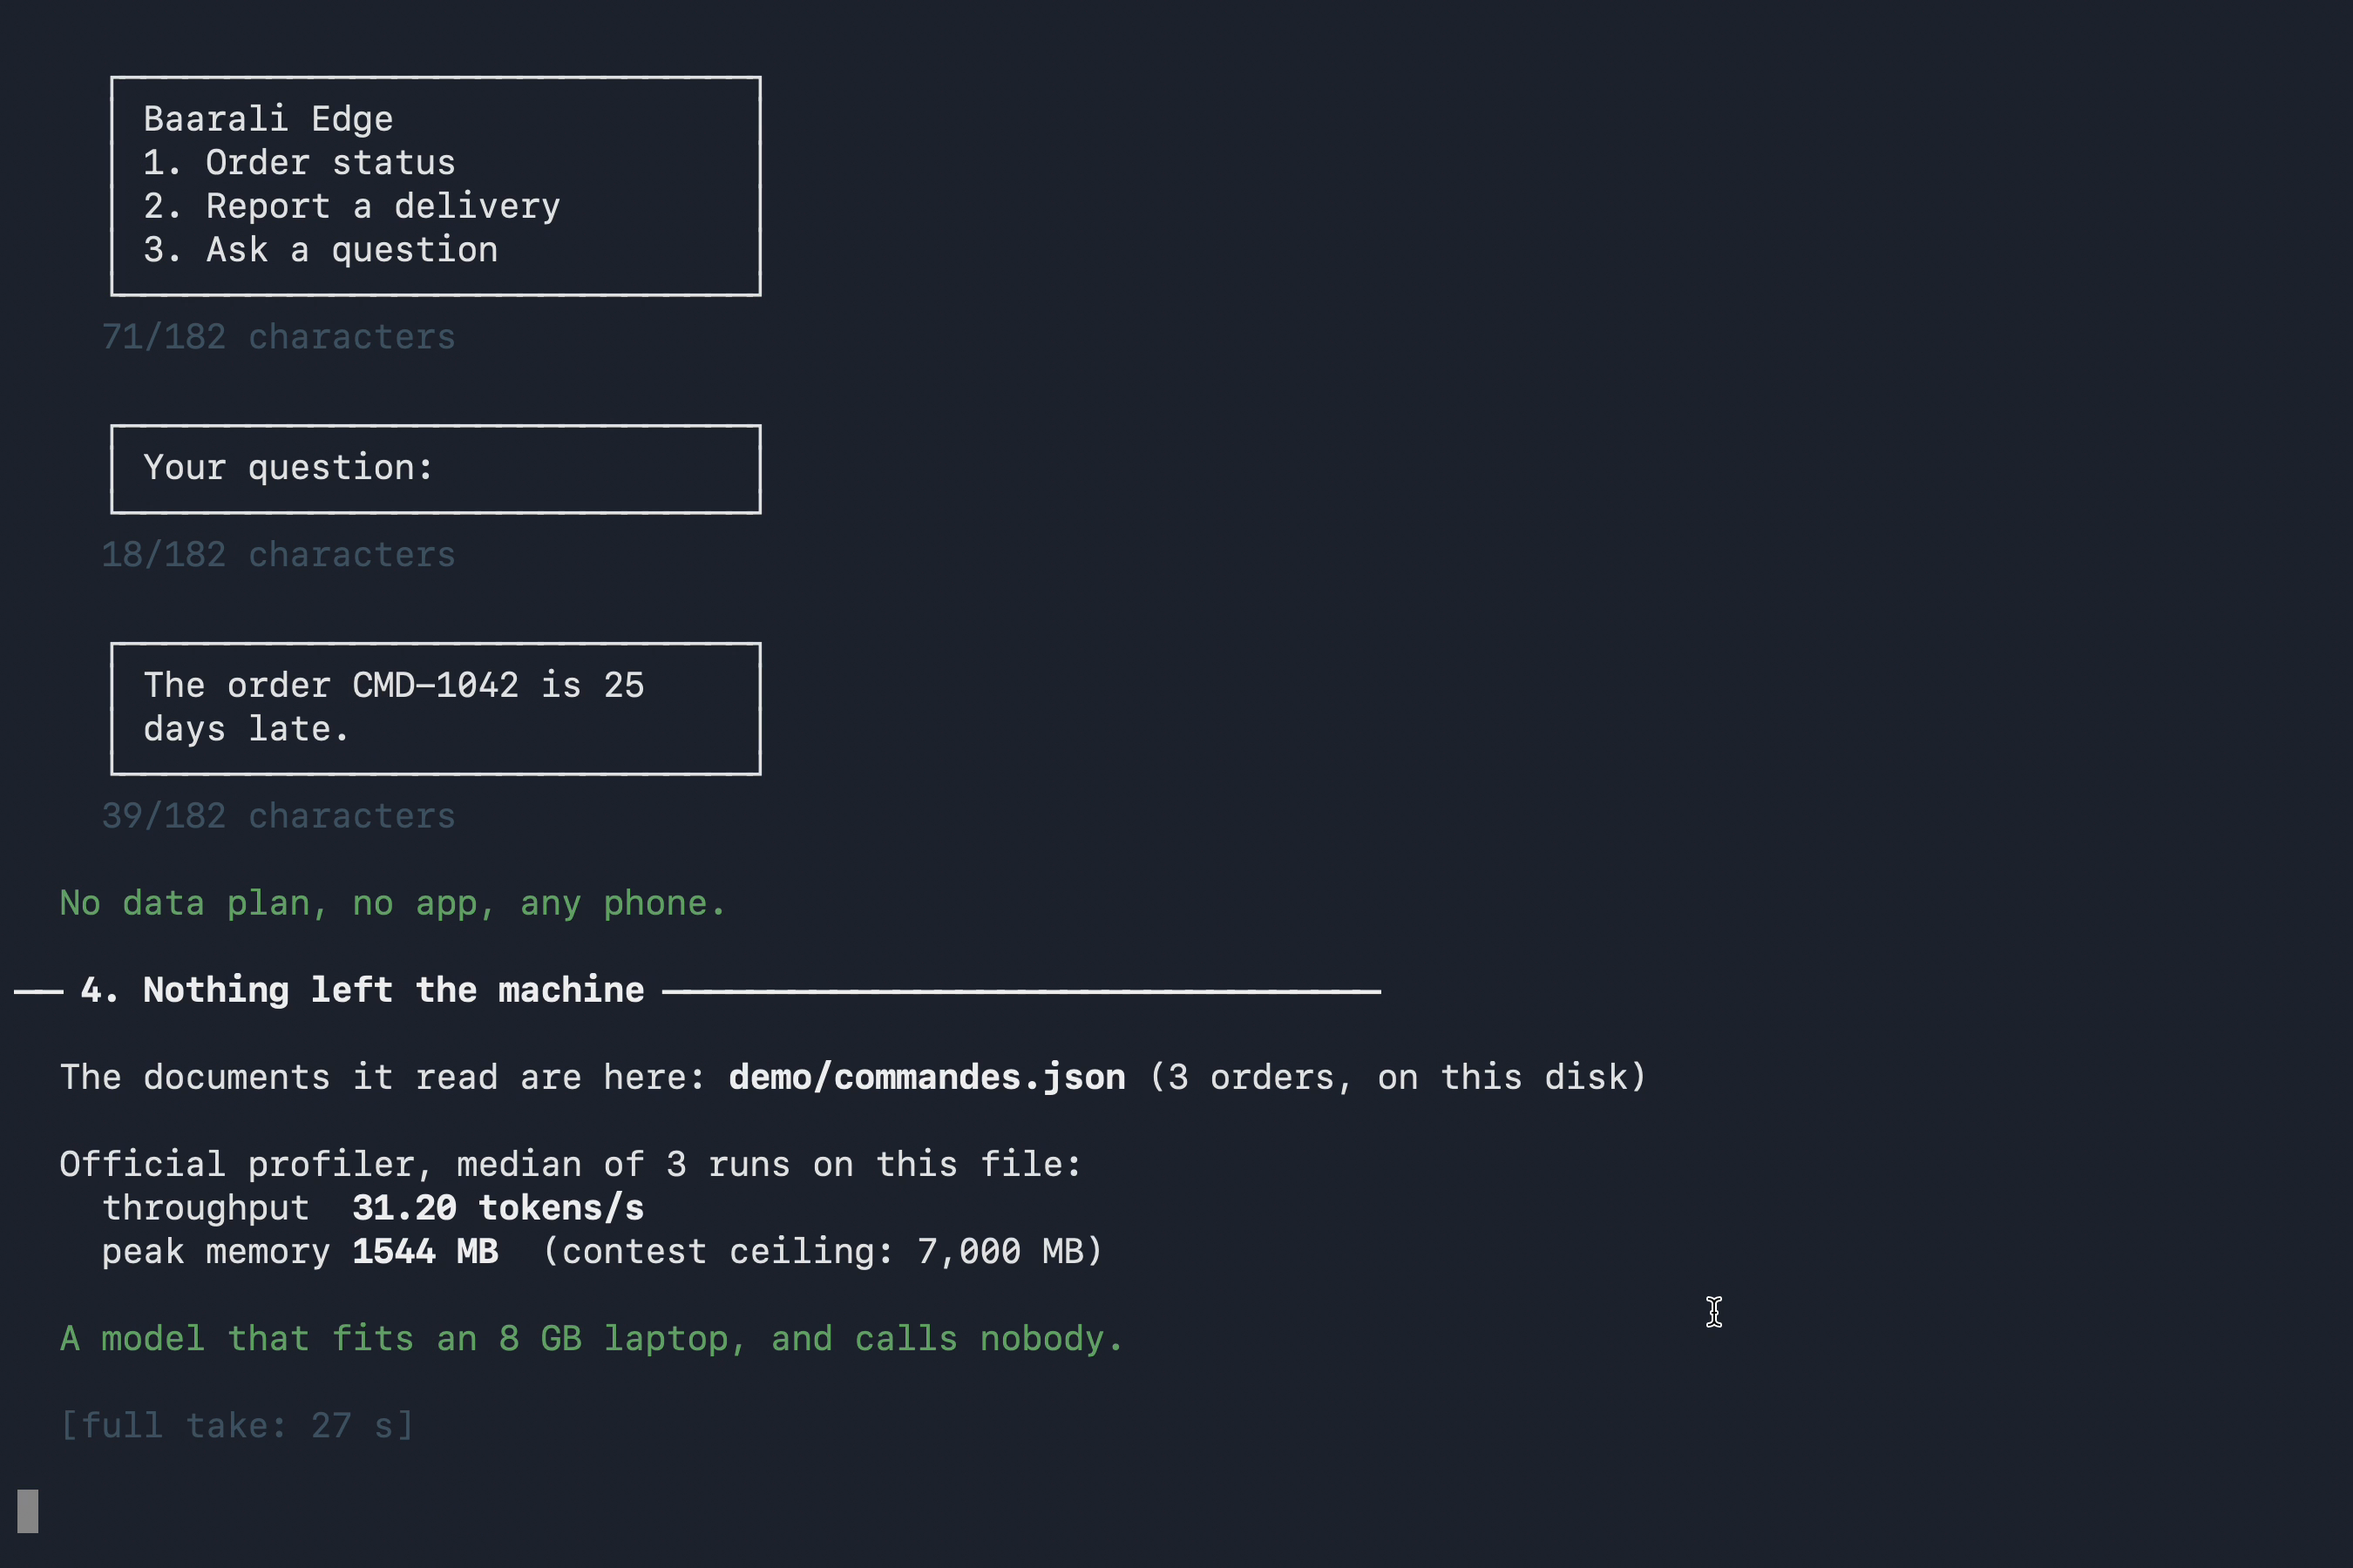
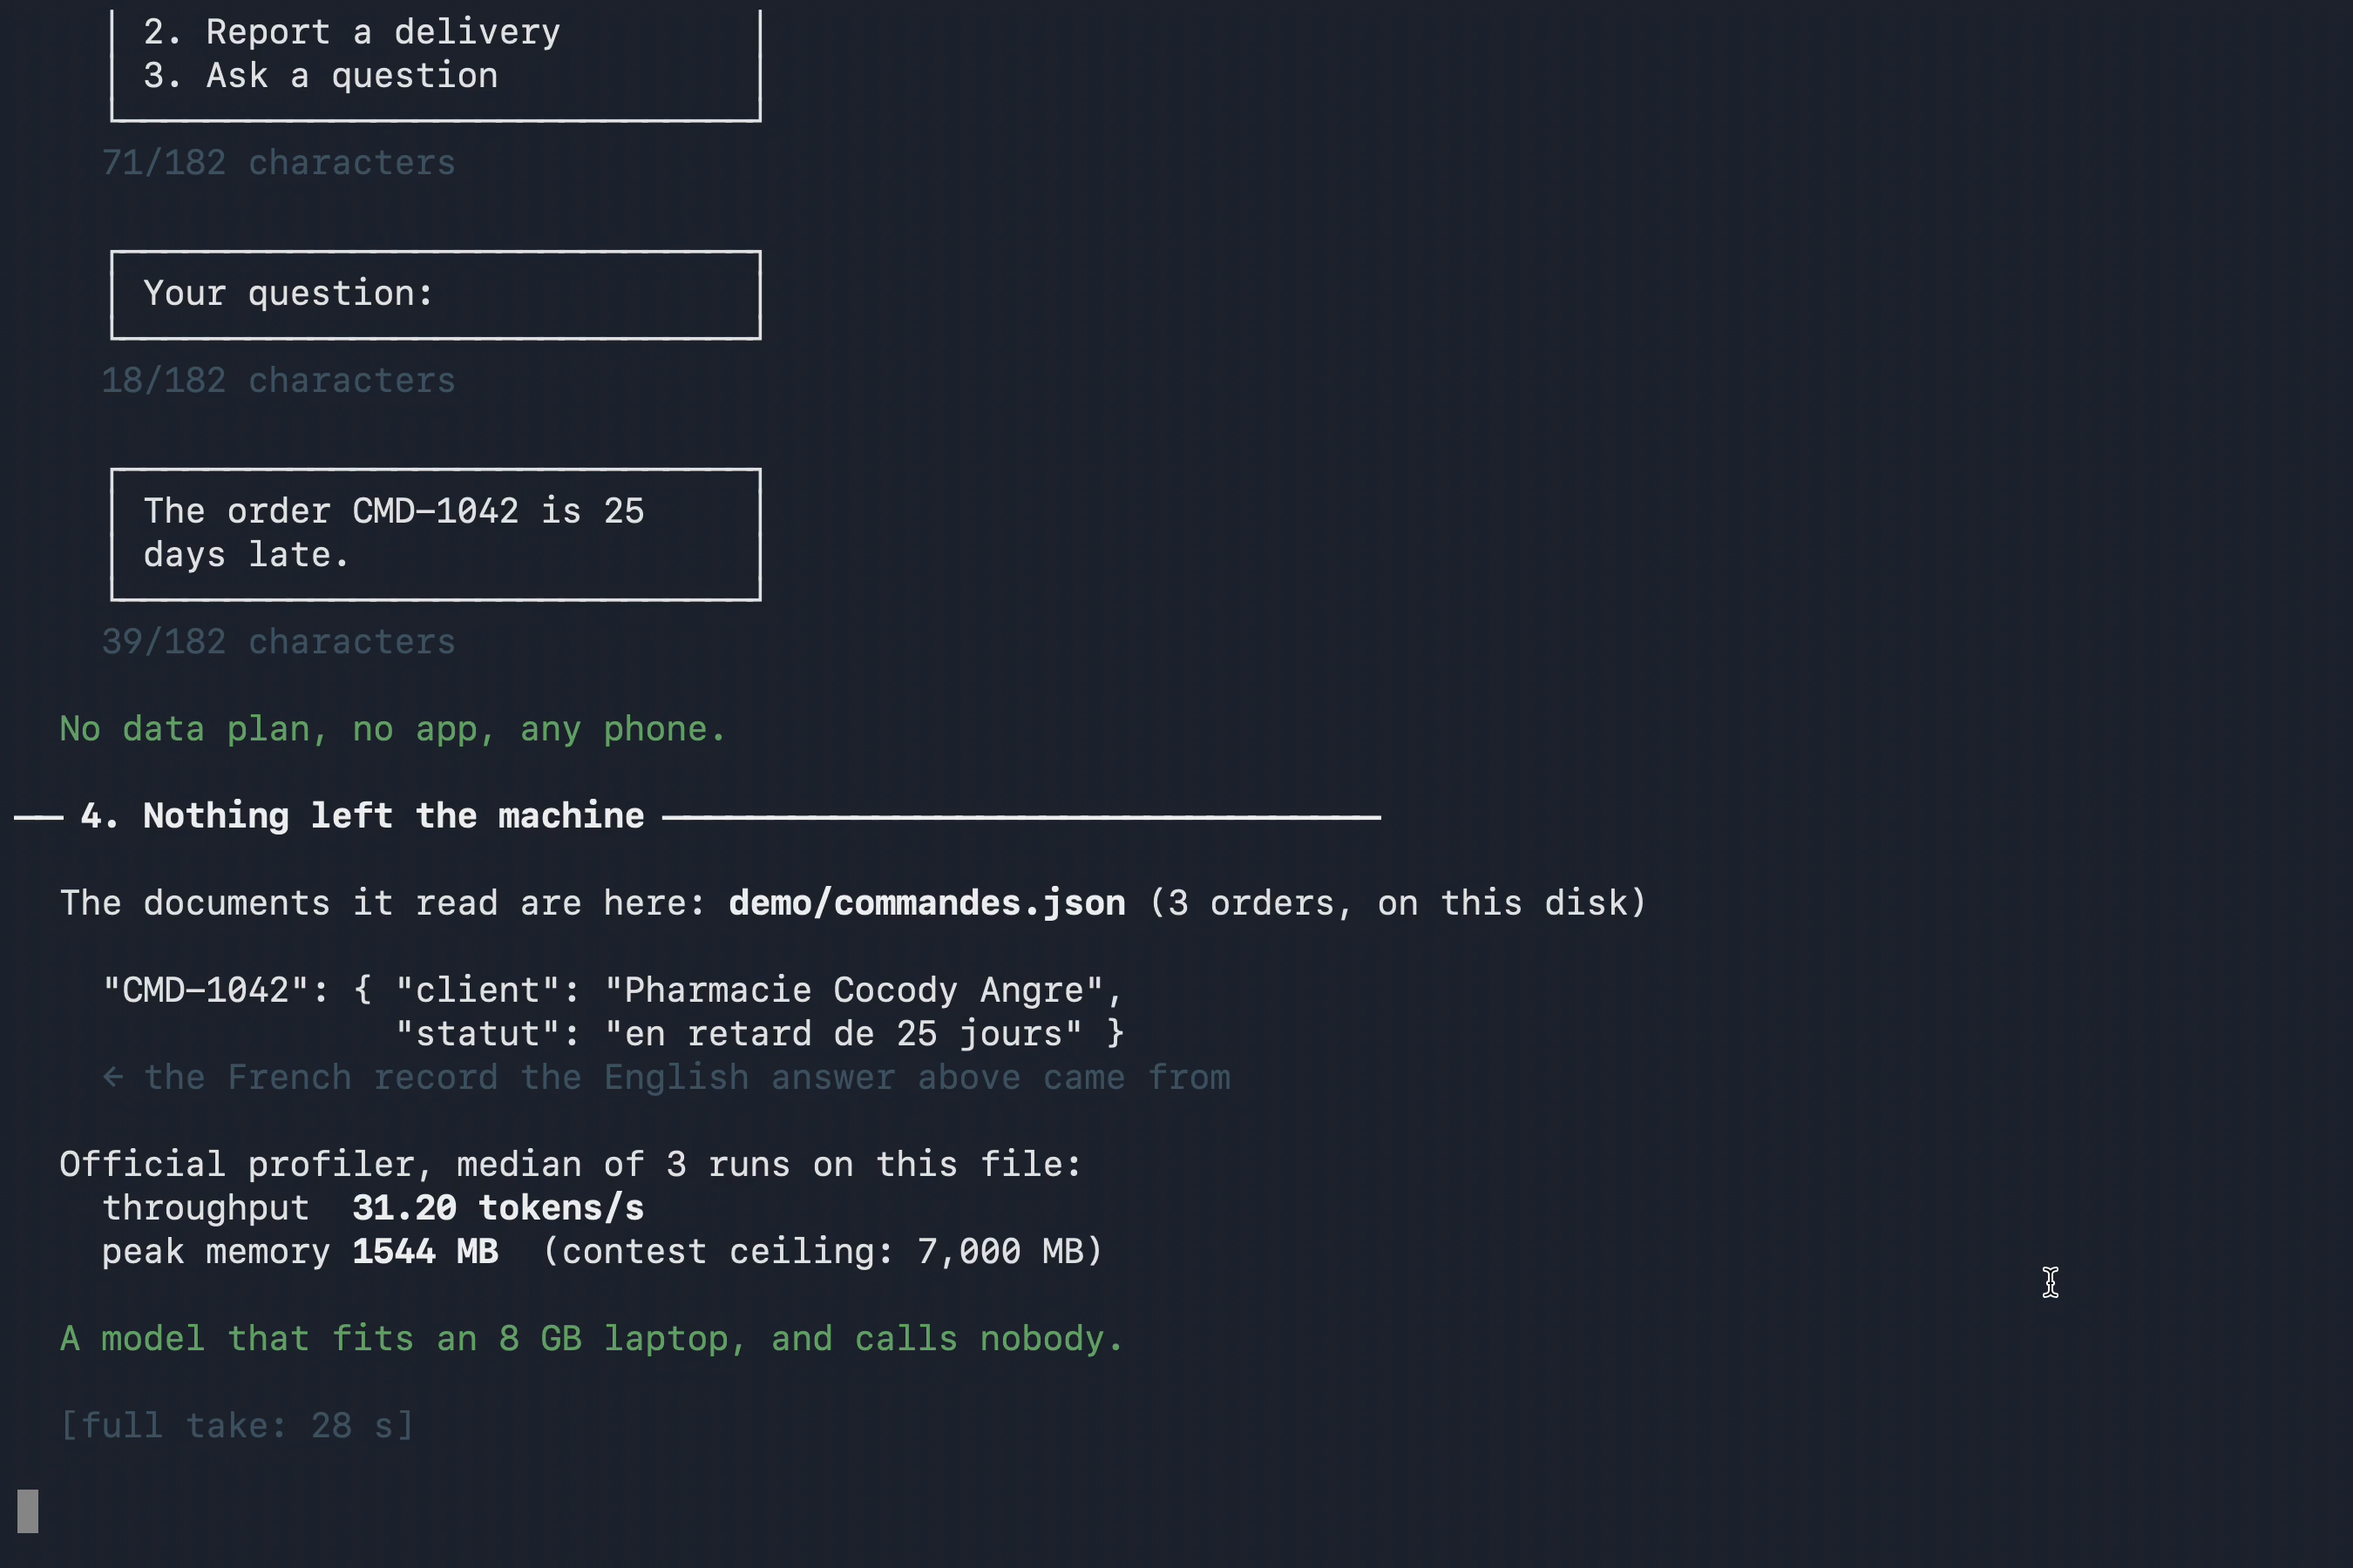
demo: montrer la source, et refuser une prise tronquee
Acte 4 : la fiche CMD-1042 telle qu elle est sur le disque, sous la reponse
anglaise qui en sort. " repond a partir des documents de l entreprise " etait
une revendication que le spectateur devait croire ; elle est maintenant a l ecran.

filmer.sh : la duree se lit dans le fichier et non au chronometre. Une prise ou
la capture s est arretee avant la fin de la scene est refusee au lieu d etre
annoncee reussie — c est arrive, l acte 4 manquait au film.

diff --git a/demo/tournage.py b/demo/tournage.py
@@ -144,6 +144,15 @@ def acte_localite() -> None:
     cmd = charger_commandes()
     print(f"  The documents it read are here: {GRAS}demo/commandes.json{FIN} "
           f"({len(cmd)} orders, on this disk)\n")
+    # La source de la réponse de l'acte 3, montrée et non affirmée. Sans ces deux
+    # lignes, « il répond à partir des documents de l'entreprise » est une
+    # revendication que le spectateur doit croire sur parole — et c'est l'une des
+    # revendications centrales du dépôt. Elle rend aussi le bilinguisme lisible :
+    # la pièce est en français, la réponse était en anglais.
+    src = cmd["CMD-1042"]
+    print(f'    "CMD-1042": {{ "client": "{src["client"]}",')
+    print(f'                  "statut": "{src["statut"]}" }}')
+    print(f"    {GRIS}← the French record the English answer above came from{FIN}\n")
     bruts = sorted((RACINE / "bench" / "raw").glob("final-iq4xs-*.json"))
     debits, pics = [], []
     for f in bruts:
